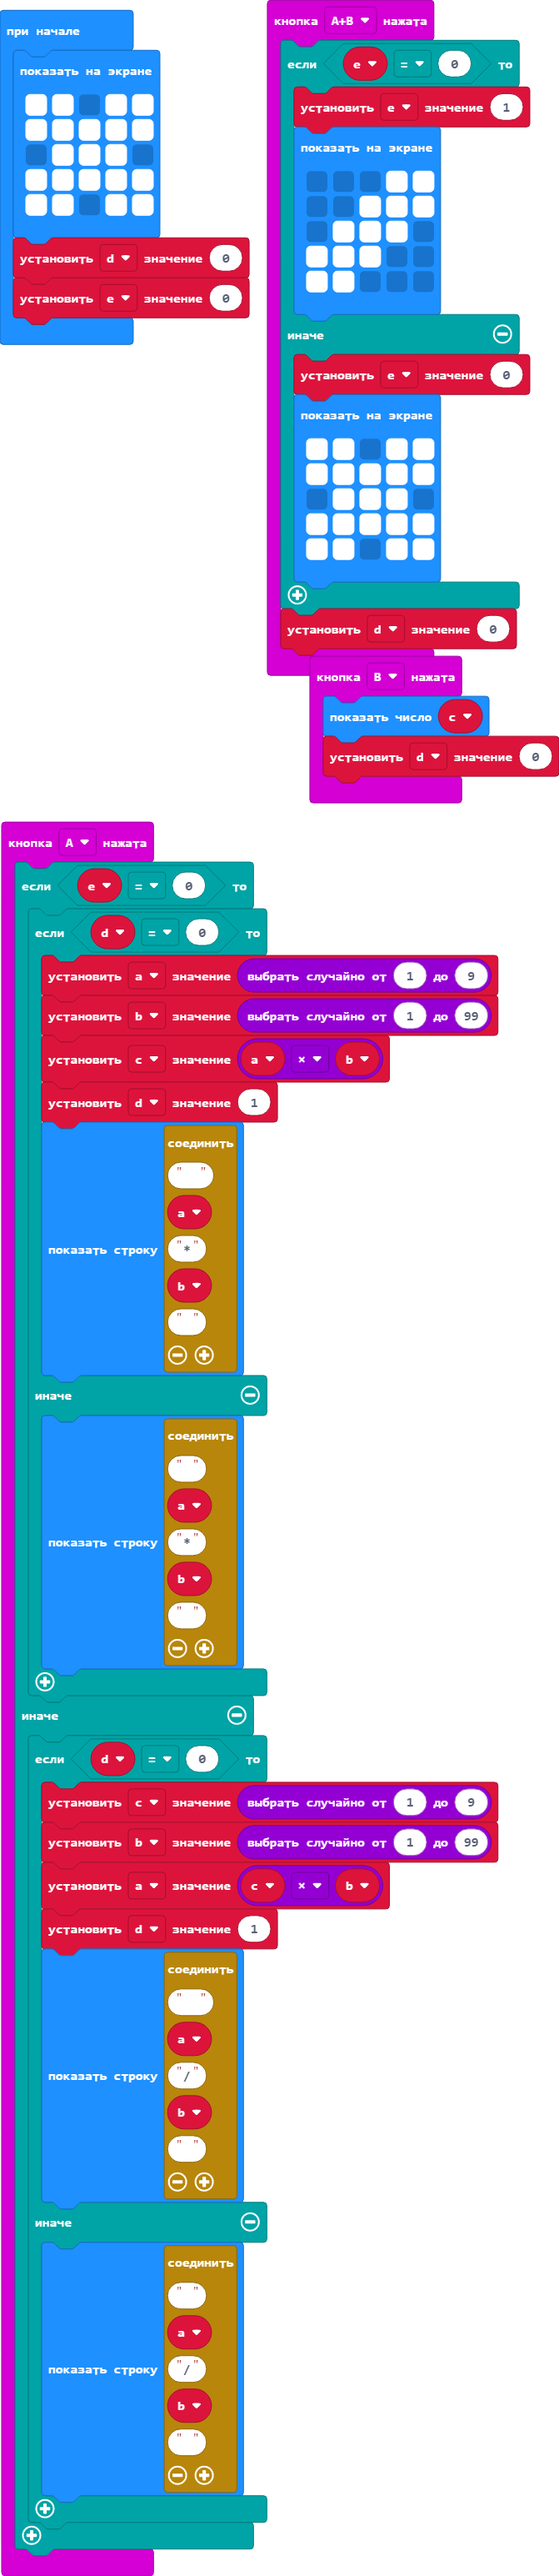
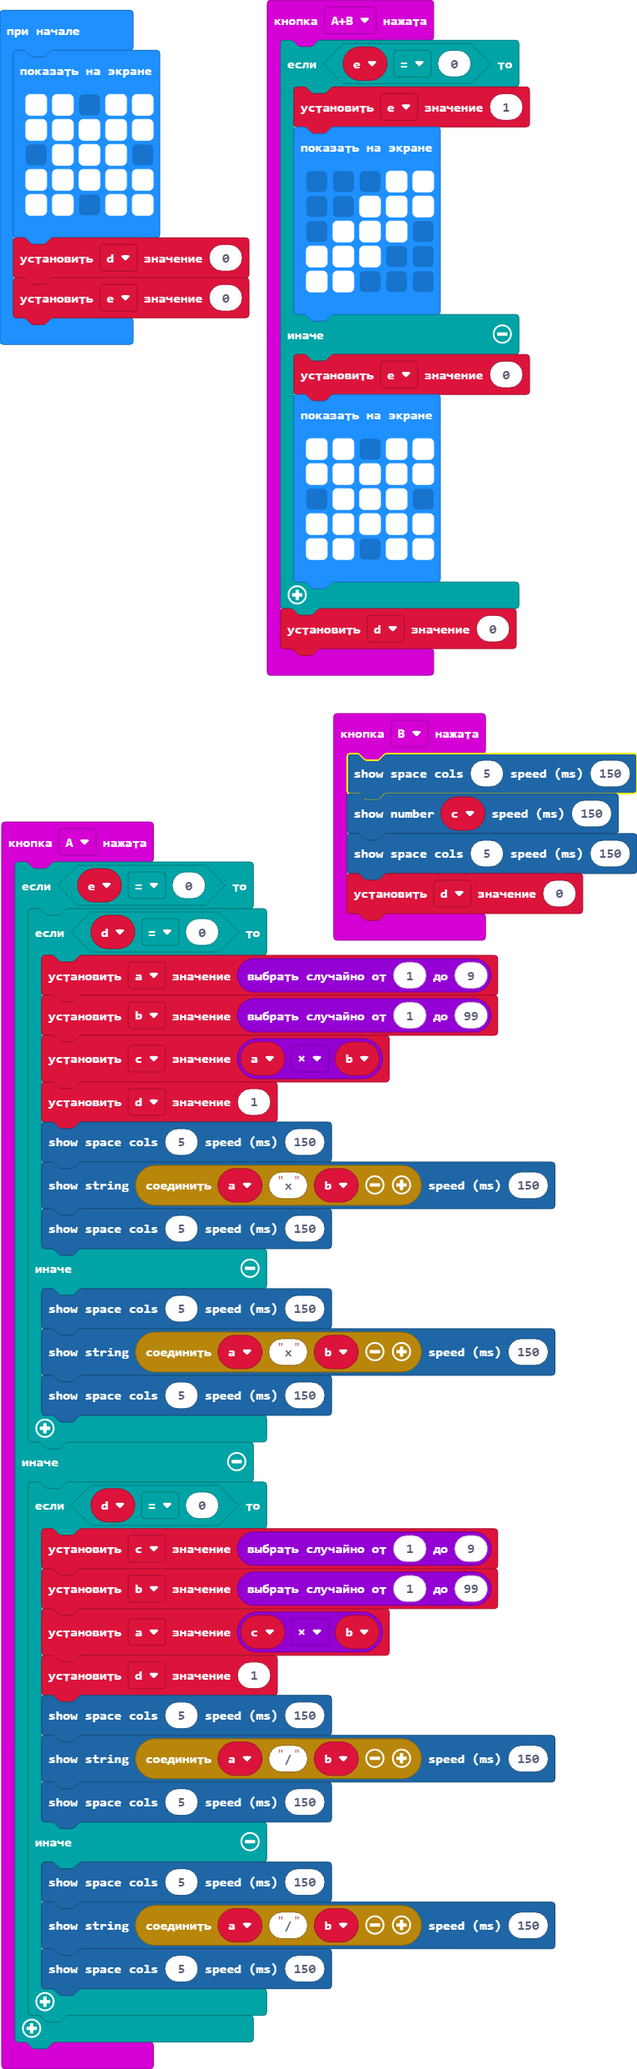
new_font

diff --git a/main.ts b/main.ts
@@ -5,9 +5,13 @@ input.onButtonPressed(Button.A, function () {
             b = randint(1, 99)
             c = a * b
             d = 1
-            basic.showString("  " + a + "*" + b + " ")
+            proportionalFont.showSpace(5, 150)
+            proportionalFont.showString("" + a + "x" + b, 150)
+            proportionalFont.showSpace(5, 150)
         } else {
-            basic.showString(" " + a + "*" + b + " ")
+            proportionalFont.showSpace(5, 150)
+            proportionalFont.showString("" + a + "x" + b, 150)
+            proportionalFont.showSpace(5, 150)
         }
     } else {
         if (d == 0) {
@@ -15,9 +19,13 @@ input.onButtonPressed(Button.A, function () {
             b = randint(1, 99)
             a = c * b
             d = 1
-            basic.showString("  " + a + "/" + b + " ")
+            proportionalFont.showSpace(5, 150)
+            proportionalFont.showString("" + a + "/" + b, 150)
+            proportionalFont.showSpace(5, 150)
         } else {
-            basic.showString(" " + a + "/" + b + " ")
+            proportionalFont.showSpace(5, 150)
+            proportionalFont.showString("" + a + "/" + b, 150)
+            proportionalFont.showSpace(5, 150)
         }
     }
 })
@@ -44,7 +52,9 @@ input.onButtonPressed(Button.AB, function () {
     d = 0
 })
 input.onButtonPressed(Button.B, function () {
-    basic.showNumber(c)
+    proportionalFont.showSpace(5, 150)
+    proportionalFont.showNumber(c, 150)
+    proportionalFont.showSpace(5, 150)
     d = 0
 })
 let c = 0
